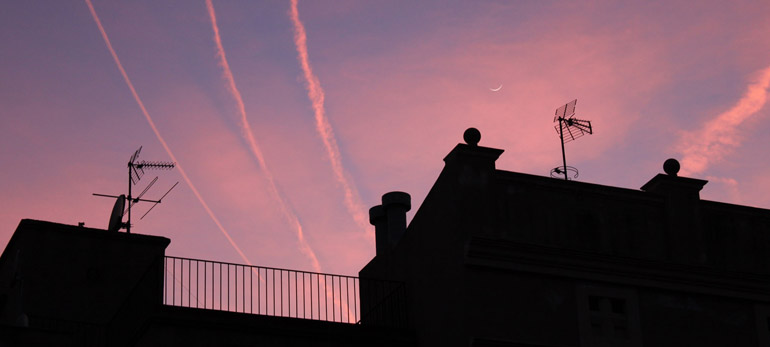
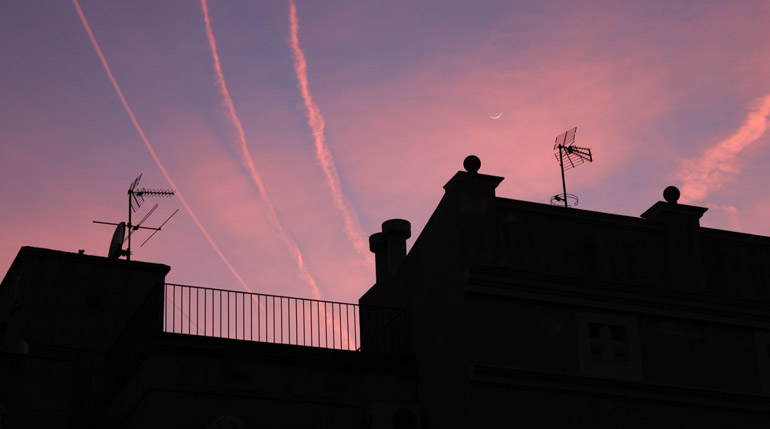
Update header images, add background-size: cover;

diff --git a/css/main.css b/css/main.css
@@ -244,6 +244,8 @@ html.contact .masthead {
     margin-left: 0;
     margin-right: 0;
     margin-bottom: 30px;
+    -moz-background-size: cover;
+         background-size: cover;
     -webkit-box-shadow: inset 0 -25px 60px -20px rgba(0, 0, 0, 0.8);
        -moz-box-shadow: inset 0 -25px 60px -20px rgba(0, 0, 0, 0.8);
             box-shadow: inset 0 -25px 60px -20px rgba(0, 0, 0, 0.8);
